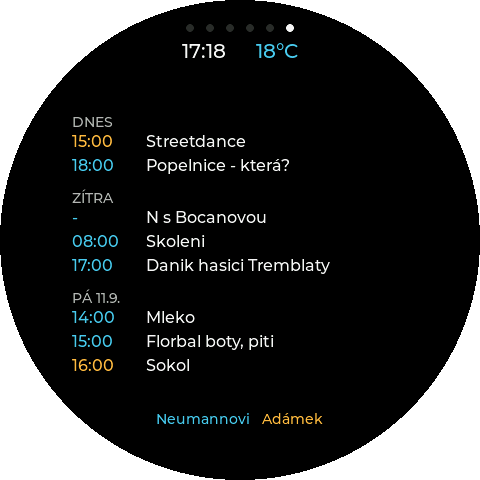
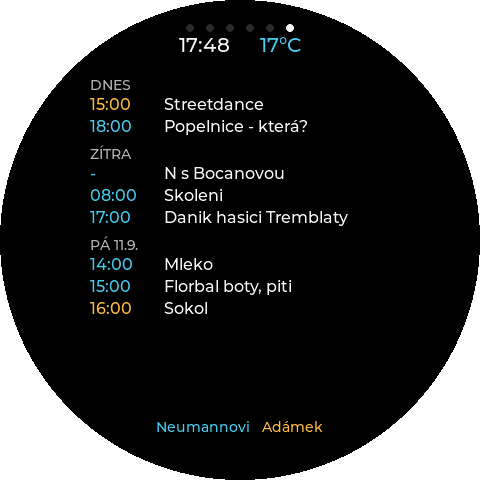
Give the agenda room for four more events
The list now starts under the header and grows downwards instead of sitting
centred in the circle. Centring left a gap above and below, which read as "no
more fits" when in fact the space was there. The forecast screen anchors its
rows the same way.

The grid also moves right. Times are short, so a symmetric grid wasted width on
the left while titles ran into the edge on the right. The bounds are set by the
topmost and bottommost rows, where the chord is 167 px, and the top row is sized
for the case where it carries a title rather than a day heading.

Tighter row and day gaps buy the rest. Two pixels a row is twenty pixels across
ten events, which is a whole extra line.

Together that raises the ceiling from 10 events to 12, matching what the server
already sends. Twelve events with three day headings is 339 px of the 345 the
band offers. With four headings the last one does not fit and the layout drops
it, which beats offering a row and then running it over the legend.

diff --git a/WaveshareHodiny/ConfigurationLocalization.h b/WaveshareHodiny/ConfigurationLocalization.h
@@ -11,7 +11,7 @@ const char CONFIGURATION_LOCALIZATION_JS[] PROGMEM = R"JS(
     "Nastavení hodin":"Clock settings","Obecné":"General","Místnosti":"Rooms","Hodnoty":"Values","Počasí":"Weather","Meteoradar":"Radar","Displej":"Display","Systém":"System","Zprávy":"News",
     // Agenda z kalendáře. Adresa míří na vlastní server, ne na Google - do
     // Googlu chodí server, takže hodiny žádný token ani ID kalendáře neznají.
-    "Agenda z kalendáře":"Calendar agenda","Zobrazovat obrazovku s agendou":"Show the agenda screen","Vypnutá obrazovka se nezobrazí ani gestem a agenda se nestahuje.":"A screen that is switched off is not shown even by a gesture, and the agenda is not downloaded.","Do Googlu chodí server, ne hodiny":"The server talks to Google, the clock does not","Hodiny čtou hotový seznam z vlastního serveru, který kalendáře přečte, sloučí a předžvýká. Který kalendář se ukáže, se proto nastavuje na serveru, ne tady.":"The clock reads a finished list from your own server, which reads the calendars, merges them and chews them over. Which calendar appears is therefore set on the server, not here.","Adresa agendy":"Agenda address","Příklad: https://tvuj-server.example.net/agenda.json":"Example: https://your-server.example.net/agenda.json","Vyzkoušet agendu":"Test the agenda","Načte agendu a ukáže, co se objeví na displeji.":"Loads the agenda and shows what will appear on the display.","Počet událostí":"Number of events","3 až 10. Každý den navíc si vezme řádek na hlavičku.":"3 to 10. Every extra day takes one line for its heading.","Počet minut mezi stažením. Server agendu přepočítává po čtvrthodině, takže častěji nemá co přinést.":"Minutes between downloads. The server recomputes the agenda every quarter of an hour, so asking more often brings nothing new.","Zapojit agendu do automatického střídání":"Include the agenda in the automatic rotation","Agendu zobrazit":"Show the agenda for","Barvy kalendářů":"Calendar colours","Každý kalendář má na displeji svou barvu podle pořadí na serveru a dole na obrazovce je legenda s jeho jménem. V noční červené paletě se barvy slévají do jedné, aby nerušily noční vidění, a rozlišuje jen legenda.":"Each calendar has its own colour on the display, taken from its order on the server, and a legend along the bottom of the screen names it. In the red night palette the colours merge into one so they do not spoil night vision, and only the legend tells them apart.","Nejdřív doplň adresu agendy.":"Fill in the agenda address first.","Načítám agendu…":"Loading the agenda…","Náhled agendy":"Agenda preview","Server odpověděl, ale kalendář nic nemá. Adresa i sdílení fungují.":"The server answered, but the calendar has nothing. Both the address and the sharing work.",
+    "Agenda z kalendáře":"Calendar agenda","Zobrazovat obrazovku s agendou":"Show the agenda screen","Vypnutá obrazovka se nezobrazí ani gestem a agenda se nestahuje.":"A screen that is switched off is not shown even by a gesture, and the agenda is not downloaded.","Do Googlu chodí server, ne hodiny":"The server talks to Google, the clock does not","Hodiny čtou hotový seznam z vlastního serveru, který kalendáře přečte, sloučí a předžvýká. Který kalendář se ukáže, se proto nastavuje na serveru, ne tady.":"The clock reads a finished list from your own server, which reads the calendars, merges them and chews them over. Which calendar appears is therefore set on the server, not here.","Adresa agendy":"Agenda address","Příklad: https://tvuj-server.example.net/agenda.json":"Example: https://your-server.example.net/agenda.json","Vyzkoušet agendu":"Test the agenda","Načte agendu a ukáže, co se objeví na displeji.":"Loads the agenda and shows what will appear on the display.","Počet událostí":"Number of events","3 až 12. Každý den navíc si vezme řádek na hlavičku, takže při dlouhém výhledu se poslední události nevejdou.":"3 to 12. Every extra day takes one line for its heading, so with a long horizon the last events will not fit.","Počet minut mezi stažením. Server agendu přepočítává po čtvrthodině, takže častěji nemá co přinést.":"Minutes between downloads. The server recomputes the agenda every quarter of an hour, so asking more often brings nothing new.","Zapojit agendu do automatického střídání":"Include the agenda in the automatic rotation","Agendu zobrazit":"Show the agenda for","Barvy kalendářů":"Calendar colours","Každý kalendář má na displeji svou barvu podle pořadí na serveru a dole na obrazovce je legenda s jeho jménem. V noční červené paletě se barvy slévají do jedné, aby nerušily noční vidění, a rozlišuje jen legenda.":"Each calendar has its own colour on the display, taken from its order on the server, and a legend along the bottom of the screen names it. In the red night palette the colours merge into one so they do not spoil night vision, and only the legend tells them apart.","Nejdřív doplň adresu agendy.":"Fill in the agenda address first.","Načítám agendu…":"Loading the agenda…","Náhled agendy":"Agenda preview","Server odpověděl, ale kalendář nic nemá. Adresa i sdílení fungují.":"The server answered, but the calendar has nothing. Both the address and the sharing work.",
     // Pořadí obrazovek.
     "Obrazovky":"Screens","Pořadí obrazovek":"Screen order","Pořadí platí pro podržení prstu i pro automatické střídání. Přetáhni obrazovku za úchyt, nebo ji posuň šipkami. Vypnutá obrazovka se přeskočí, ale místo si drží, takže se po zapnutí vrátí tam, kam patří.":"The order applies to the finger hold as well as to the automatic rotation. Drag a screen by its handle, or move it with the arrows. A screen that is switched off is skipped but keeps its place, so it returns where it belongs once switched on.","Přetažením změníš pořadí obrazovek":"Drag to reorder the screens","Hodiny":"Clock","Agenda":"Agenda","Zapnutá":"On","Vypnutá":"Off","Nastavení":"Settings","Vždy poslední v cyklu":"Always last in the cycle","Nastavení je v cyklu poslední a přesouvat se nedá; jinak by se z něj odcházelo pokaždé jinam.":"The settings screen is last in the cycle and cannot be moved; otherwise leaving it would end up somewhere different every time.","Pořadí obrazovek není platné.":"The screen order is not valid.",
     // Radar letadel, převzatý z projektu MeteoPlaneRadar.

diff --git a/WaveshareHodiny/ClockDashboard.cpp b/WaveshareHodiny/ClockDashboard.cpp
@@ -2500,22 +2500,31 @@ void createRssPage(lv_obj_t *screen) {
 // legenda: jméno každého kalendáře ve své barvě. Barva času tak nepotřebuje
 // vysvětlení jinde než na téže obrazovce.
 constexpr int AGENDA_RADIUS = 240;
-// Levý okraj mřížky. V pásu, kde leží řádky, má kruh poloviční tětivu aspoň
-// 187 px, takže 168 nechává na obou stranách rezervu i pro nejširší řádek.
-constexpr int AGENDA_LEFT = -168;
-constexpr int AGENDA_RIGHT = 168;
+// Mřížka není na kruhu vystředěná, ale posunutá doprava: čas je krátký a levý
+// sloupec by jinak nechával širokou mezeru, zatímco názvy vpravo naráží na
+// okraj. Meze drží nejnižší a nejvyšší řádek - v y = ±166 má kruh poloviční
+// tětivu 167 px, takže se −150 i 166 vejdou i do nejkrajnějšího řádku. Počítá
+// se s tím, že úplně nahoře nemusí stát hlavička dne, ale rovnou celý název.
+constexpr int AGENDA_LEFT = -150;
+constexpr int AGENDA_RIGHT = 166;
 constexpr int AGENDA_TIME_WIDTH = 66;
 constexpr int AGENDA_COLUMN_GAP = 8;
-constexpr int AGENDA_ROW_GAP = 4;
+// Mezery jsou úsporné schválně: každé ušetřené dva pixely na řádek jsou při
+// deseti událostech dvacet pixelů, a to je celý další řádek.
+constexpr int AGENDA_ROW_GAP = 2;
 // Mezera nad hlavičkou dne. Odděluje dny výrazněji než mezera mezi řádky, aby
 // se seznam četl po dnech, ne jako jeden sloupec.
-constexpr int AGENDA_DAY_GAP = 10;
-constexpr int AGENDA_HEADER_Y = -190;
-constexpr int AGENDA_LEGEND_Y = 178;
+constexpr int AGENDA_DAY_GAP = 7;
+// Hlavička a legenda jsou u samého okraje: obě jsou krátké a vejdou se i tam,
+// kde by se celý řádek agendy už nevešel. Uvolněné místo uprostřed je přesně
+// to, co pojme další události.
+constexpr int AGENDA_HEADER_Y = -196;
+constexpr int AGENDA_LEGEND_Y = 186;
 // Svislý pás mezi hlavičkou a legendou. Co se do něj nevejde, se neukáže -
-// řádek přes legendu je horší než o událost méně.
-constexpr int AGENDA_BLOCK_TOP = -150;
-constexpr int AGENDA_BLOCK_HEIGHT = 300;
+// řádek přes legendu je horší než o událost méně. Při deseti událostech a
+// čtyřech hlavičkách dnů zbývá ještě rezerva, takže se vejde i nejhorší případ.
+constexpr int AGENDA_BLOCK_TOP = -172;
+constexpr int AGENDA_BLOCK_HEIGHT = 345;
 // Celodenní událost nemá čas; pomlčka drží sloupec, aby názvy začínaly pod
 // sebou i pod ní.
 constexpr char AGENDA_ALL_DAY_MARK[] = "-";
@@ -2570,17 +2579,6 @@ uint8_t agendaFittingItemCount(uint8_t count) {
   return count;
 }
 
-int agendaBlockHeight(uint8_t count) {
-  const int lineHeight = agendaLineHeight();
-  const int dayHeight = agendaDayHeight();
-  int total = 0;
-  for (uint8_t index = 0; index < count; ++index) {
-    total += lineHeight + AGENDA_ROW_GAP;
-    if (agendaRowStartsDay[index]) total += dayHeight + AGENDA_DAY_GAP;
-  }
-  return total;
-}
-
 // Rozmístí řádky do mřížky. Volá se až po naplnění všech řádků, protože dřív
 // není známo, kde jsou hranice dnů, a řádek s hlavičkou je o její výšku vyšší.
 void layoutAgendaItems() {
@@ -2588,9 +2586,11 @@ void layoutAgendaItems() {
   const int lineHeight = agendaLineHeight();
   const int dayHeight = agendaDayHeight();
   const uint8_t visible = agendaFittingItemCount(agendaVisibleItemCount);
-  const int total = agendaBlockHeight(visible);
-  int cursorY = -total / 2;
-  if (cursorY < AGENDA_BLOCK_TOP) cursorY = AGENDA_BLOCK_TOP;
+  // Seznam začíná pod hlavičkou, ne uprostřed kruhu. Vystředěný blok nechával
+  // nahoře i dole mezeru a při krátké agendě vypadal, že se na obrazovku víc
+  // nevejde - přitom místo bylo. Takhle roste dolů do prázdna, jako hodiny na
+  // předpovědi.
+  int cursorY = AGENDA_BLOCK_TOP;
   const int titleLeft = AGENDA_LEFT + AGENDA_TIME_WIDTH + AGENDA_COLUMN_GAP;
 
   for (size_t index = 0; index < CLOCK_AGENDA_MAX_ITEMS; ++index) {

diff --git a/WaveshareHodiny/ConfigurationPage.h b/WaveshareHodiny/ConfigurationPage.h
@@ -336,7 +336,7 @@ const char CONFIGURATION_PAGE[] PROGMEM = R"HTML(
           <div class="span-12"><label for="agendaUrl">Adresa agendy</label><input id="agendaUrl" name="agendaUrl" type="url" maxlength="191" placeholder="https://tvuj-server.example.net/agenda.json" autocomplete="off"><span class="hint">Příklad: https://tvuj-server.example.net/agenda.json</span></div>
           <div class="span-12"><button class="secondary" type="button" id="agendaTestButton">Vyzkoušet agendu</button><span class="hint" id="agendaTestFeedback">Načte agendu a ukáže, co se objeví na displeji.</span></div>
           <div class="span-12 hidden" id="agendaPreview"></div>
-          <div class="span-4"><label for="agendaItemCount">Počet událostí</label><input id="agendaItemCount" name="agendaItemCount" type="number" min="3" max="10" step="1" value="8"><span class="hint">3 až 10. Každý den navíc si vezme řádek na hlavičku.</span></div>
+          <div class="span-4"><label for="agendaItemCount">Počet událostí</label><input id="agendaItemCount" name="agendaItemCount" type="number" min="3" max="12" step="1" value="8"><span class="hint">3 až 12. Každý den navíc si vezme řádek na hlavičku, takže při dlouhém výhledu se poslední události nevejdou.</span></div>
           <div class="span-4"><label for="agendaRefreshMinutes">Obnovovat každých</label><input id="agendaRefreshMinutes" name="agendaRefreshMinutes" type="number" min="5" max="120" step="1" value="15"><span class="hint">Počet minut mezi stažením. Server agendu přepočítává po čtvrthodině, takže častěji nemá co přinést.</span></div>
           <div class="span-12"><div class="switch-row"><span class="field-label">Zapojit agendu do automatického střídání</span><label class="switch" aria-label="Zapojit agendu do automatického střídání"><input id="agendaAutomaticRotation" name="agendaAutomaticRotation" type="checkbox"><span></span></label></div><span class="hint">Po vypnutí zůstane obrazovka dostupná podržením prstu na displeji.</span></div>
           <div class="span-4 hidden" id="agendaRotationSettings"><label for="agendaDisplaySeconds">Agendu zobrazit</label><input id="agendaDisplaySeconds" name="agendaDisplaySeconds" type="number" min="10" max="3600" step="1" value="20"><span class="hint">Počet sekund při automatickém střídání. Dobu zobrazení hodin nastavíš v záložce Meteoradar.</span></div>

diff --git a/WaveshareHodiny/ClockConfig.h b/WaveshareHodiny/ClockConfig.h
@@ -31,9 +31,13 @@ constexpr size_t CLOCK_AGENDA_URL_LENGTH = 192;
 constexpr uint8_t CLOCK_RSS_MIN_ITEMS = 3;
 constexpr uint8_t CLOCK_RSS_MAX_ITEMS = 6;
 // Agenda kreslí jeden řádek na událost plus hlavičku dne, takže se jí na kruh
-// vejde víc než zpráv, které zabírají dva až tři řádky.
+// vejde víc než zpráv, které zabírají dva až tři řádky. Strop se rovná tomu,
+// kolik jich posílá server: dvanáct událostí se třemi hlavičkami dnů je 339 px
+// z 345, které pás mezi hlavičkou a legendou nabízí. Se čtyřmi hlavičkami se
+// poslední nevejde a rozvržení ji zahodí, což je pořád lepší než ji nabídnout
+// a nevykreslit.
 constexpr uint8_t CLOCK_AGENDA_MIN_ITEMS = 3;
-constexpr uint8_t CLOCK_AGENDA_MAX_ITEMS = 10;
+constexpr uint8_t CLOCK_AGENDA_MAX_ITEMS = 12;
 // Schema 20 is the public 1.5.5 baseline. Schema 24 added CHMI radar settings
 // plus automatic clock/radar rotation. Schema 25 added the persistent UI
 // language; schema 26 distinguishes an as-yet unselected language and uses

diff --git a/WaveshareHodiny/ConfigurationWeb.cpp b/WaveshareHodiny/ConfigurationWeb.cpp
@@ -1755,7 +1755,7 @@ void handleSaveConfig() {
     const int agendaItemCount = server.arg("agendaItemCount").toInt();
     if (agendaItemCount < CLOCK_AGENDA_MIN_ITEMS ||
         agendaItemCount > CLOCK_AGENDA_MAX_ITEMS) {
-      sendError(400, F("Počet událostí musí být od 3 do 10."));
+      sendError(400, F("Počet událostí musí být od 3 do 12."));
       return;
     }
     const int agendaRefreshMinutes = server.arg("agendaRefreshMinutes").toInt();

diff --git a/README.md b/README.md
@@ -419,8 +419,10 @@ události a složí i popisky dnů, takže ve firmwaru nezůstala žádná datum
 aritmetika a v hodinách žádný token. Které kalendáře se ukážou, se proto
 nastavuje na serveru; návod i zdrojové soubory jsou v [infra/](infra/README.md).
 
-Zobrazit lze 3 až 10 událostí; výchozí je 8. Každý den navíc si vezme jeden
-řádek na hlavičku, takže se jich při dlouhém výhledu vejde méně. Tlačítko
+Zobrazit lze 3 až 12 událostí; výchozí je 8. Seznam začíná pod hlavičkou a
+roste dolů. Každý den navíc si vezme jeden řádek na svou hlavičku, takže se
+při dlouhém výhledu poslední události nevejdou a obrazovka je vynechá — řádek
+přes legendu by byl horší než o událost méně. Tlačítko
 **Vyzkoušet agendu** adresu stáhne ještě před uložením a ukáže, co se objeví na
 displeji.
 

diff --git a/README.en.md b/README.en.md
@@ -400,8 +400,10 @@ the day labels, so no date arithmetic is left in the firmware and no token is
 stored on the clock. Which calendars appear is therefore configured on the
 server; the setup and the source files live in [infra/](infra/README.md).
 
-Between 3 and 10 events can be shown, 8 by default. Every extra day takes one
-line for its heading, so a longer horizon fits fewer events. The **Test the
+Between 3 and 12 events can be shown, 8 by default. The list starts below the
+header and grows downwards. Every extra day takes one line for its heading, so
+with a longer horizon the last events do not fit and the screen leaves them out
+— a row running over the legend would be worse than one event fewer. The **Test the
 agenda** button downloads the address before you save and shows what will appear
 on the display.
 
